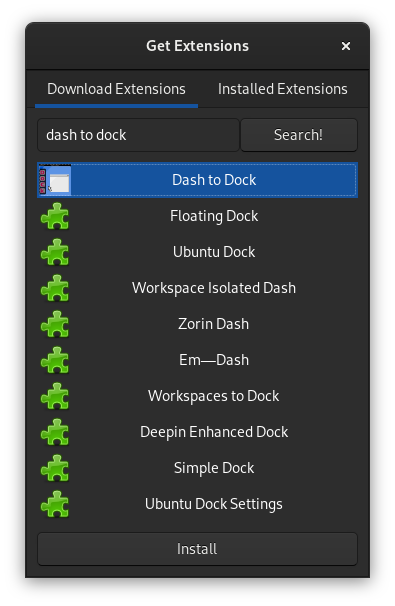
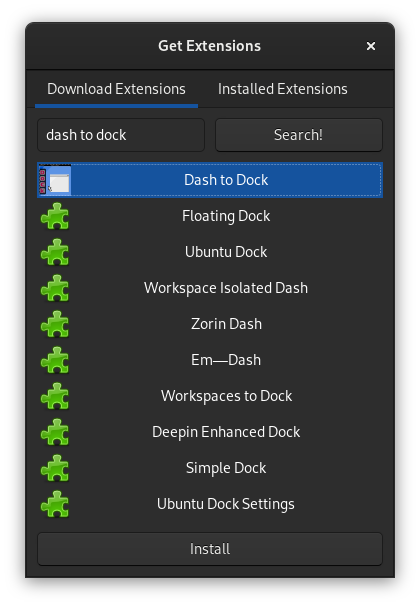
Fixed a lot of the UI stuff

diff --git a/main.py b/main.py
@@ -25,57 +25,81 @@ class MainWindow(Gtk.Window):
         hb.props.title = "Get Extensions"
         self.set_titlebar(hb)
 
-        # Create notebook for tabs
-        self.notebook = Gtk.Notebook()
-        self.add(self.notebook)
-
-        # Layout for page1
-        self.page1 = Gtk.VBox()
-        self.page1.set_spacing(10)
-        self.searchbox = Gtk.HBox()
-        self.page1.pack_start(self.searchbox, True, True, 0)
-        self.page1.set_border_width(10)
-        self.notebook.append_page(self.page1, Gtk.Label(label="Download Extensions"))
-
-        # Layout for page2
-        self.page2 = Gtk.VBox()
-        self.page2.set_spacing(10)
-        self.page2.set_border_width(10)
-        self.notebook.append_page(self.page2, Gtk.Label(label="Installed Extensions"))
-
-        # Create and attach Entry field to grid
+        # Create Entry field to grid
         self.entry = Gtk.Entry()
         self.entry.connect("key-press-event",self.on_key_press_event)
-        self.searchbox.pack_start(self.entry, True, True, 0)
 
-        # Create and attach search button
+        # Create search button
         self.searchbutton = Gtk.Button(label="Search!")
         self.searchbutton.connect("clicked", self.on_searchbutton_clicked)
-        self.searchbox.pack_start(self.searchbutton, True, True, 0)
-        
-        # Create and attach ListBox1 and install button to page1
+
+        # Create ListBox1 and install button
         self.listbox1 = Gtk.ListBox()
-        self.page1.pack_start(self.listbox1, True, True, 0)
         self.listbox1.connect("row-selected", self.on_listbox1_row_selected)
         self.installbutton = Gtk.Button(label="Install")
         self.installbutton.connect("clicked", self.on_installbutton_clicked)
         self.installbutton.set_sensitive(False)
-        self.page1.pack_end(self.installbutton, True, True, 0)
 
         # Create and attach ListBox2 and delete button to page2
         self.listbox2 = Gtk.ListBox()
-        self.page2.pack_start(self.listbox2, True, True, 0)
         self.listbox2.connect("row-selected", self.on_listbox2_row_selected)
         self.removebutton = Gtk.Button(label="Remove")
         self.removebutton.connect("clicked", self.on_removebutton_clicked)
         self.removebutton.set_sensitive(False)
-        self.page2.pack_end(self.removebutton, True, True, 0)
+
+        # Create tabs
+        self.notebook = Gtk.Notebook()
+        self.add(self.notebook)
+
+        # Define grid1 and set layout
+        self.grid1 = Gtk.Grid()
+        self.notebook.append_page(self.grid1, Gtk.Label(label="Download Extensions"))
+
+        # Set grid1 padding
+        self.grid1.set_column_homogeneous(True)
+        self.grid1.set_margin_top(10)
+        self.grid1.set_margin_bottom(10)
+        self.grid1.set_margin_start(10)
+        self.grid1.set_margin_end(10)
+        self.grid1.set_column_spacing(10)
+        self.grid1.set_row_spacing(10)
+
+        # Populate grid1
+        self.grid1.add(self.entry)
+        self.grid1.attach(self.searchbutton, 1, 0, 1 ,1)
+        self.grid1.attach(self.listbox1,  0, 1, 2 ,1)
+        self.grid1.attach(self.installbutton,  0, 2, 2 ,1)
+
+        # Define grid2 and set layout
+        self.grid2 = Gtk.Grid()
+        self.notebook.append_page(self.grid2, Gtk.Label(label="Installed Extensions"))
+
+        # Set grid2 padding
+        self.grid2.set_column_homogeneous(True)
+        self.grid2.set_margin_top(10)
+        self.grid2.set_margin_bottom(10)
+        self.grid2.set_margin_start(10)
+        self.grid2.set_margin_end(10)
+        self.grid2.set_column_spacing(10)
+        self.grid2.set_row_spacing(10)
+
+        # Populate grid2
+        self.grid2.add(self.listbox2)
+        self.grid2.attach(self.removebutton, 0, 1, 1 ,1)
 
         # Create the ExtensionsManagerobject
         self.extmgr = extensionmanager.ExtensionManager()
 
         # Populate page2
         self.show_installed_extensions()
+
+        # Set focus on entry
+        self.entry.set_can_focus(True)
+        self.entry.grab_focus()
+
+        # Add no results to listbox
+        self.listbox1.add(ListBoxRowWithData("Search to show results!"))
+        self.listbox1.set_sensitive(False)
 
     def show_installed_extensions(self):
         # Clear old entries
@@ -96,6 +120,7 @@ class MainWindow(Gtk.Window):
         print(message)
 
     def search_from_entry(self):
+        self.listbox1.set_sensitive(False)
         if self.extmgr.search(self.entry.get_text()) == 1:
             self.show_error("Couldn't fetch the extensions list.")
         
@@ -132,6 +157,7 @@ class MainWindow(Gtk.Window):
         self.show_all()
         
         # Reenable search button
+        self.listbox1.set_sensitive(True)
         self.searchbutton.set_sensitive(True)
         self.searchbutton.set_label("Search!")
         return
@@ -181,5 +207,6 @@ class MainWindow(Gtk.Window):
         self.removebutton.set_sensitive(True)
 
 win = MainWindow()
+win.connect("destroy", Gtk.main_quit)
 win.show_all()
 Gtk.main()
